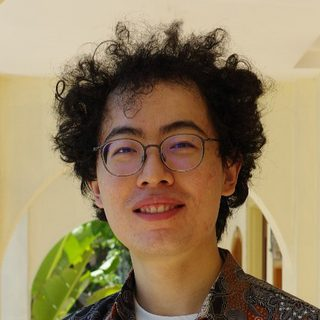
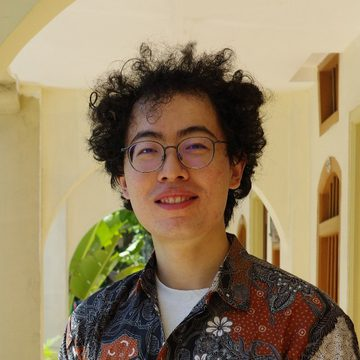
Wider profile photo; contact wording

diff --git a/index.html b/index.html
@@ -145,7 +145,7 @@ a:focus-visible, button:focus-visible { outline: 2px solid var(--accent-ink); ou
 
   <section id="cv"><h2>CV</h2><p>Download my CV: <a href="Boxiang_Wang_CV.pdf" target="_blank" rel="noopener">PDF</a>.</p></section>
 
-  <section id="contact"><h2>Contact</h2><p>The best way to reach me is by email: <a href="mailto:boxiang001@e.ntu.edu.sg">boxiang001@e.ntu.edu.sg</a>.</p></section>
+  <section id="contact"><h2>Contact</h2><p>Feel free to contact me at <a href="mailto:boxiang001@e.ntu.edu.sg">boxiang001@e.ntu.edu.sg</a>. I am always happy to discuss research collaborations and opportunities in audio, acoustics, and audio AI.</p></section>
 
   <footer>Last updated November 2026.</footer>
 </main>
